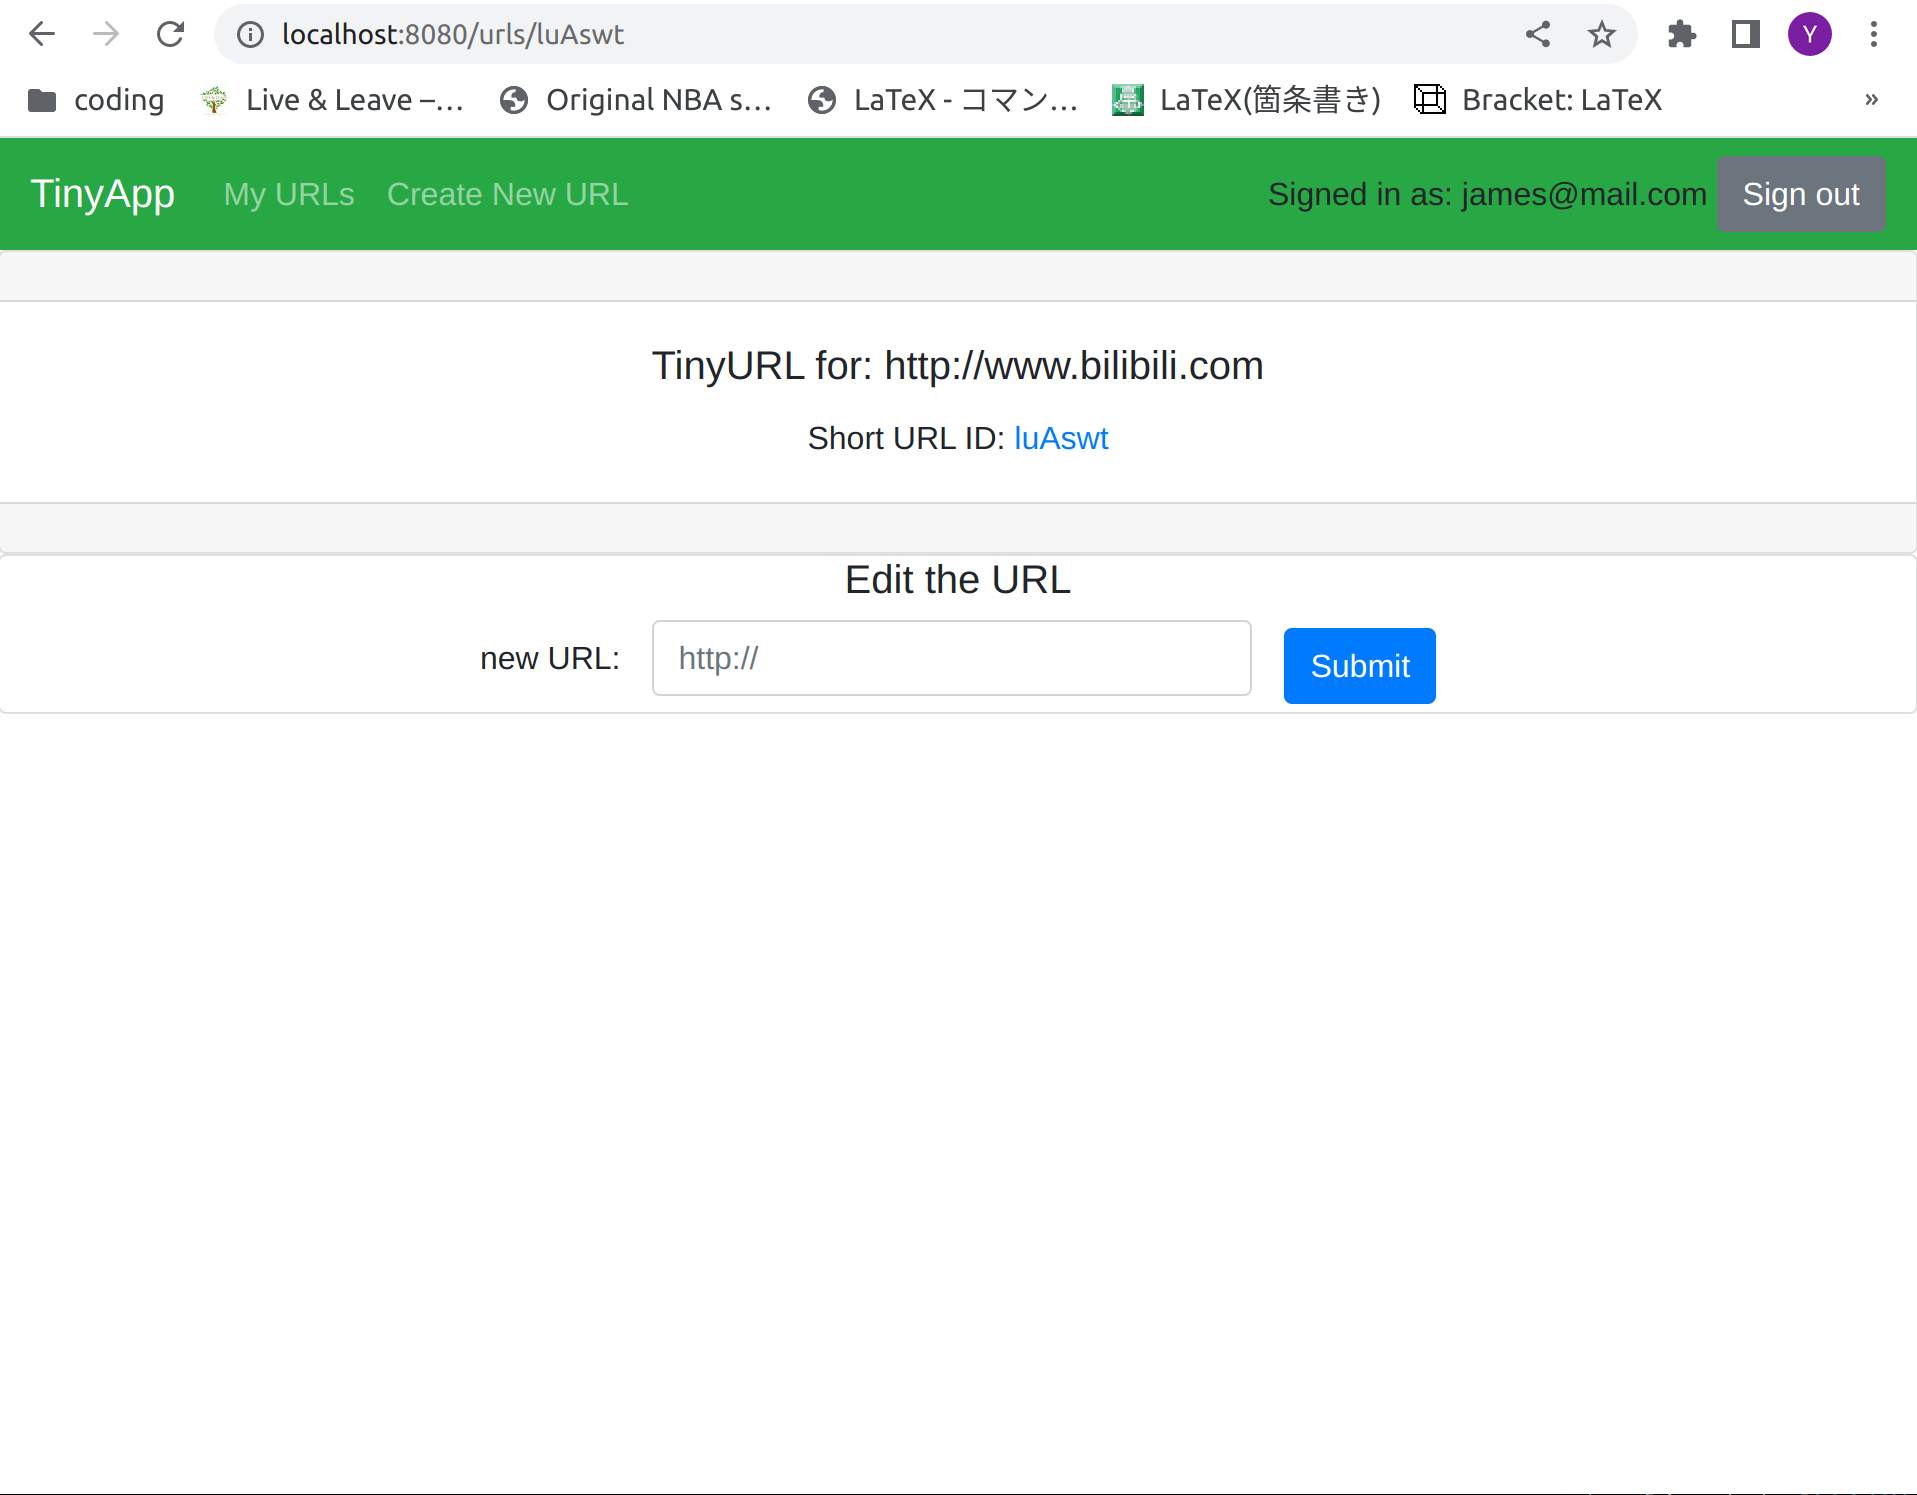
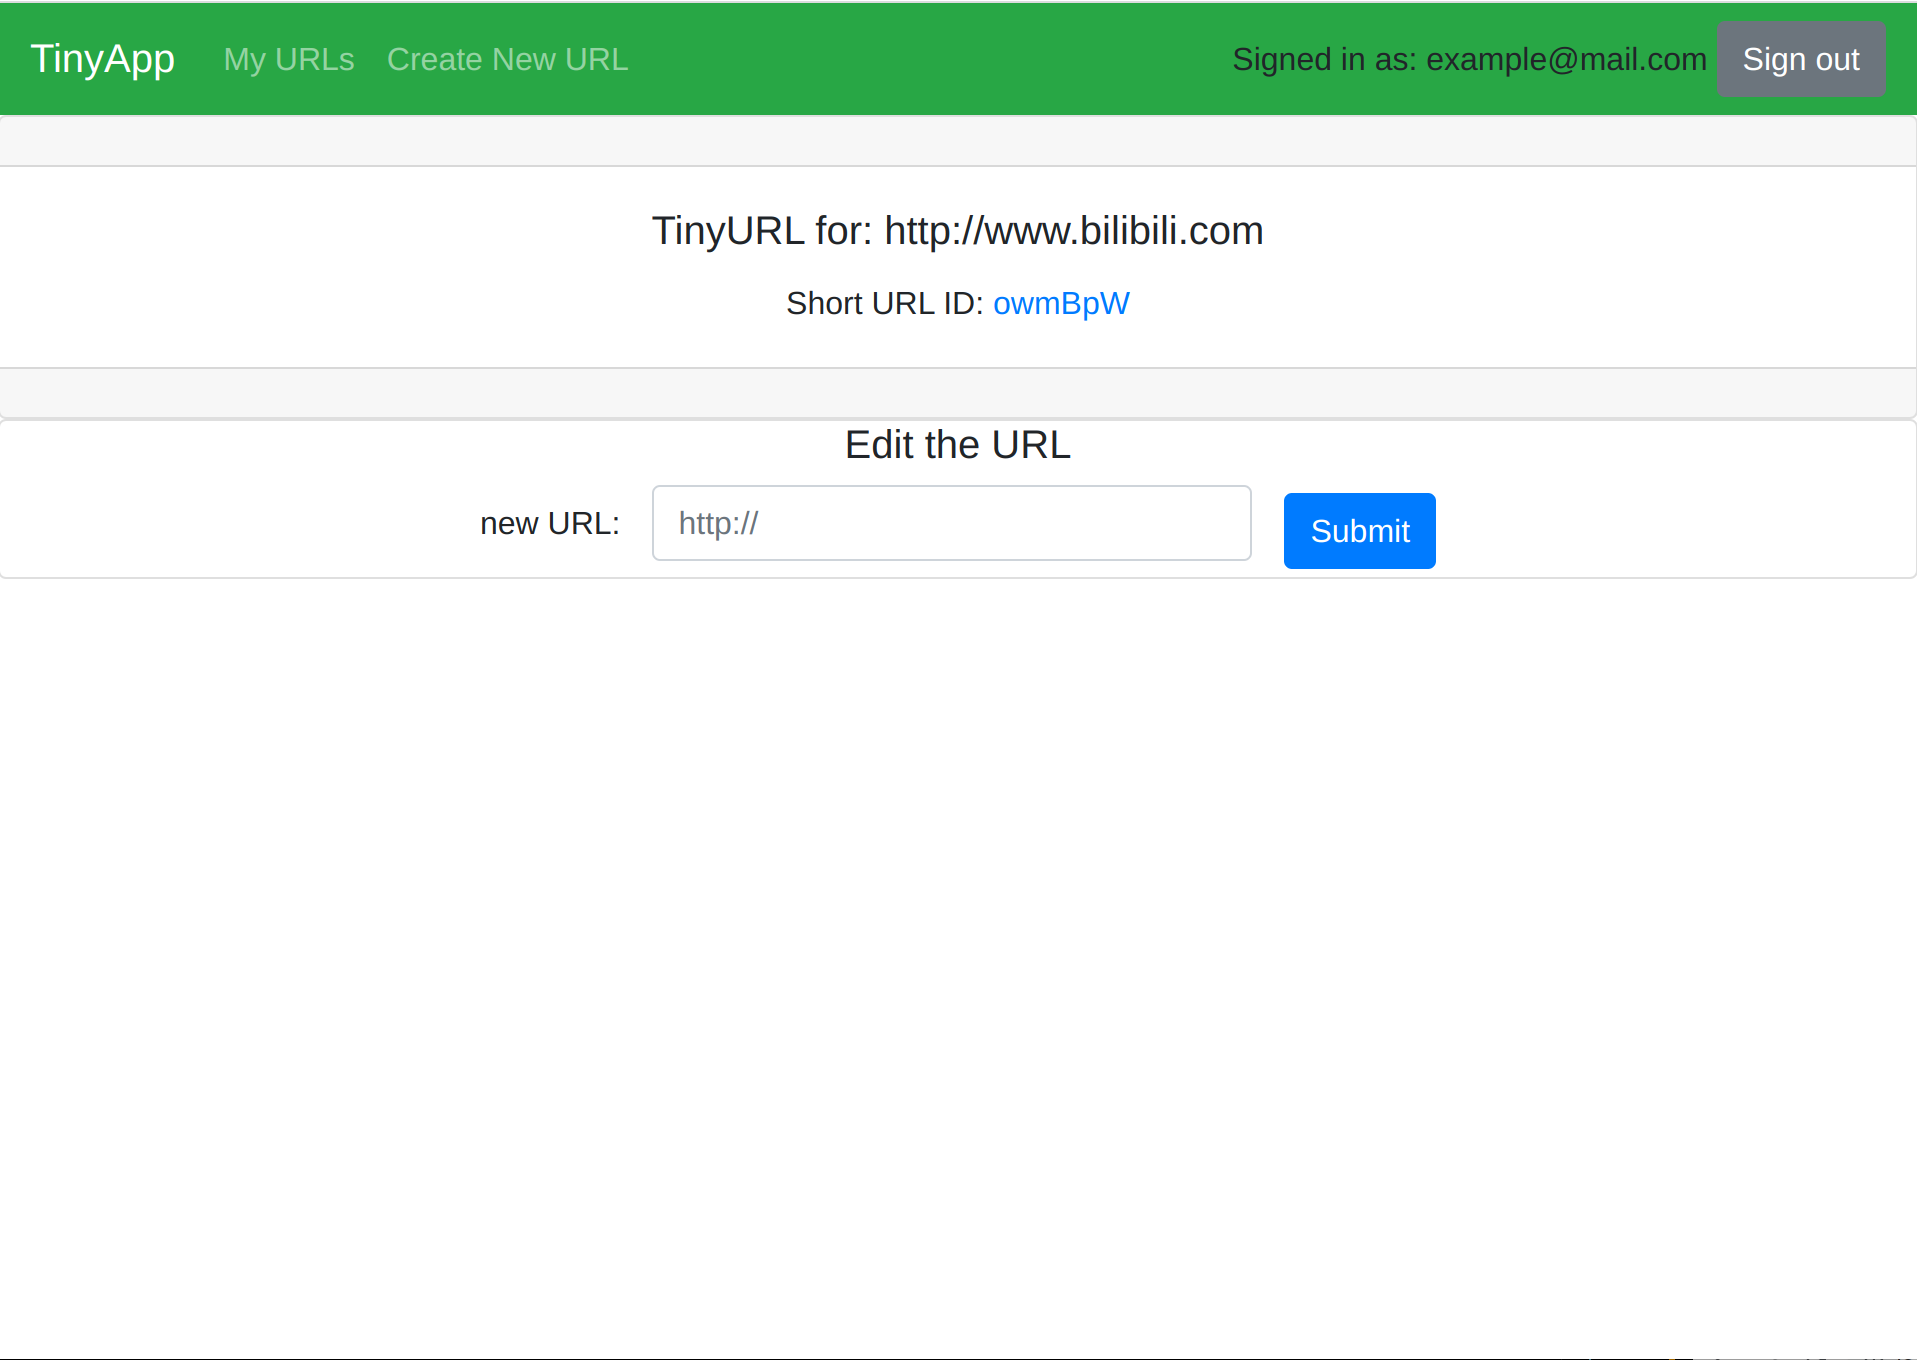
change screen shots

diff --git a/README.md b/README.md
@@ -6,8 +6,12 @@ This app is RESTful, and the security level of data on this website is strengthe
 
 ## Final Product
 
-!["screenshot description"](#)
-!["screenshot description"](#)
+!["URLs index of the specific user"](https://github.com/Tank-Sun/tinyapp/blob/master/docs/urls-index-page.png?raw=true)
+!["Simple home page"](https://github.com/Tank-Sun/tinyapp/blob/master/docs/home-page.png?raw=true)
+!["User register page"](https://github.com/Tank-Sun/tinyapp/blob/master/docs/register-page.png?raw=true)
+!["User sign in page"](https://github.com/Tank-Sun/tinyapp/blob/master/docs/signin-page.png?raw=true)
+!["Add new URL page"](https://github.com/Tank-Sun/tinyapp/blob/master/docs/new-url-page.png?raw=true)
+!["Edit URL page"](https://github.com/Tank-Sun/tinyapp/blob/master/docs/edit-url-page.png?raw=true)
 
 ## Dependencies
 
